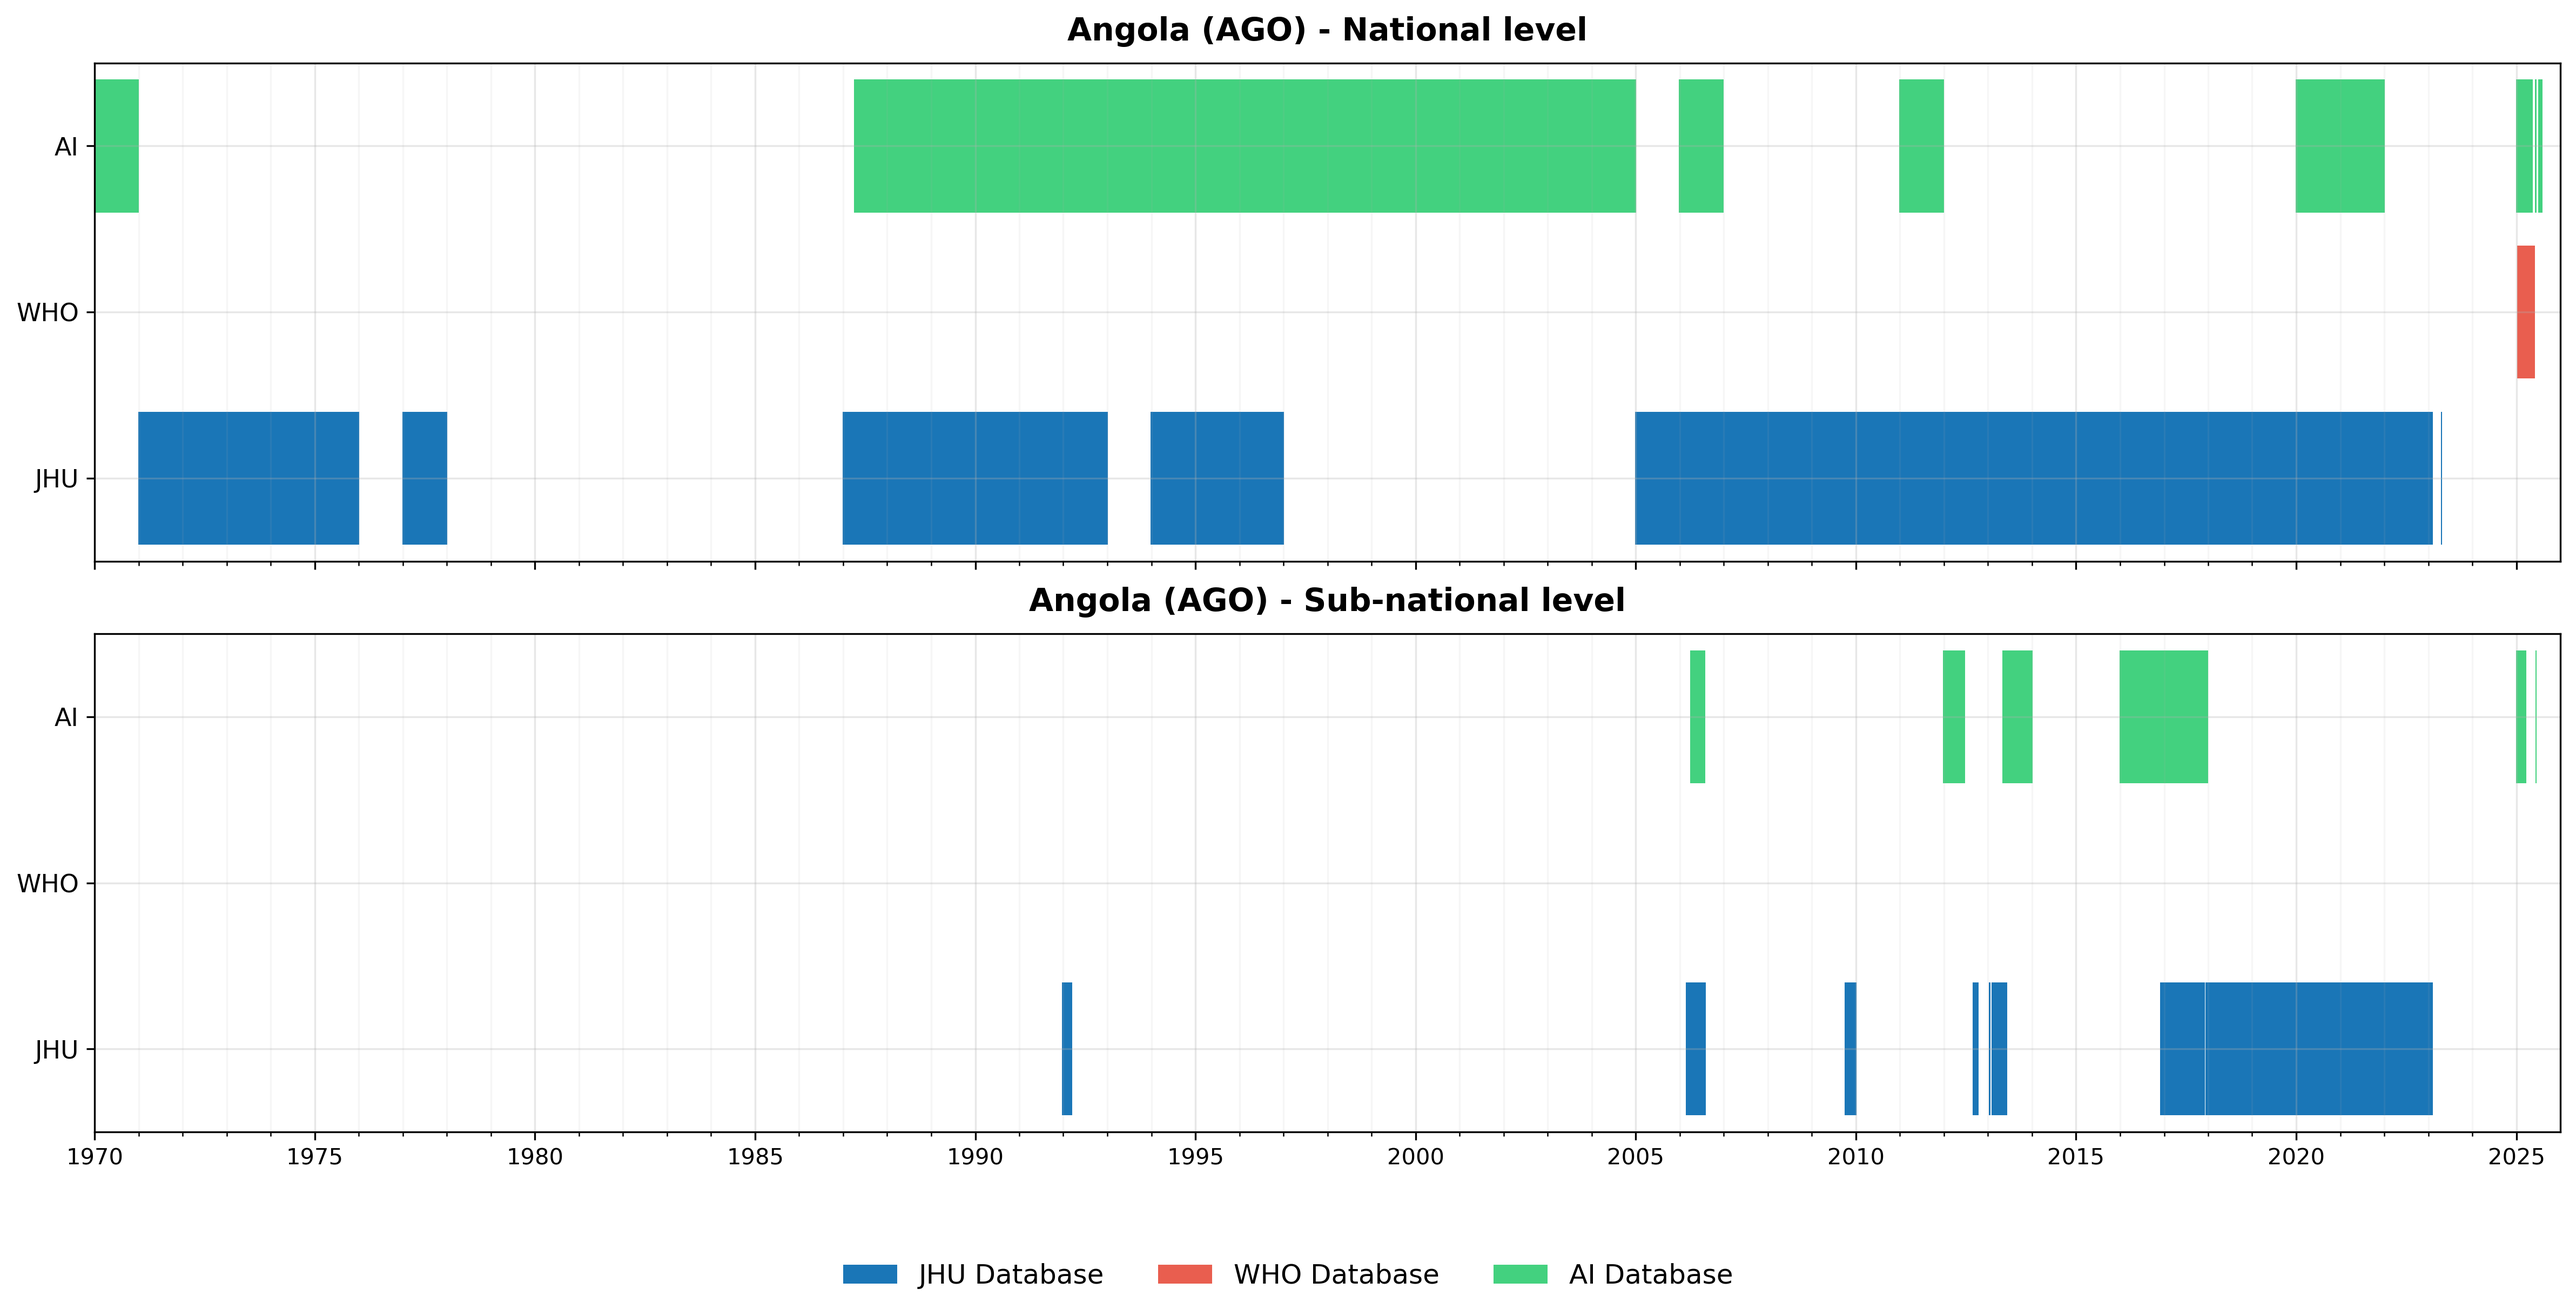
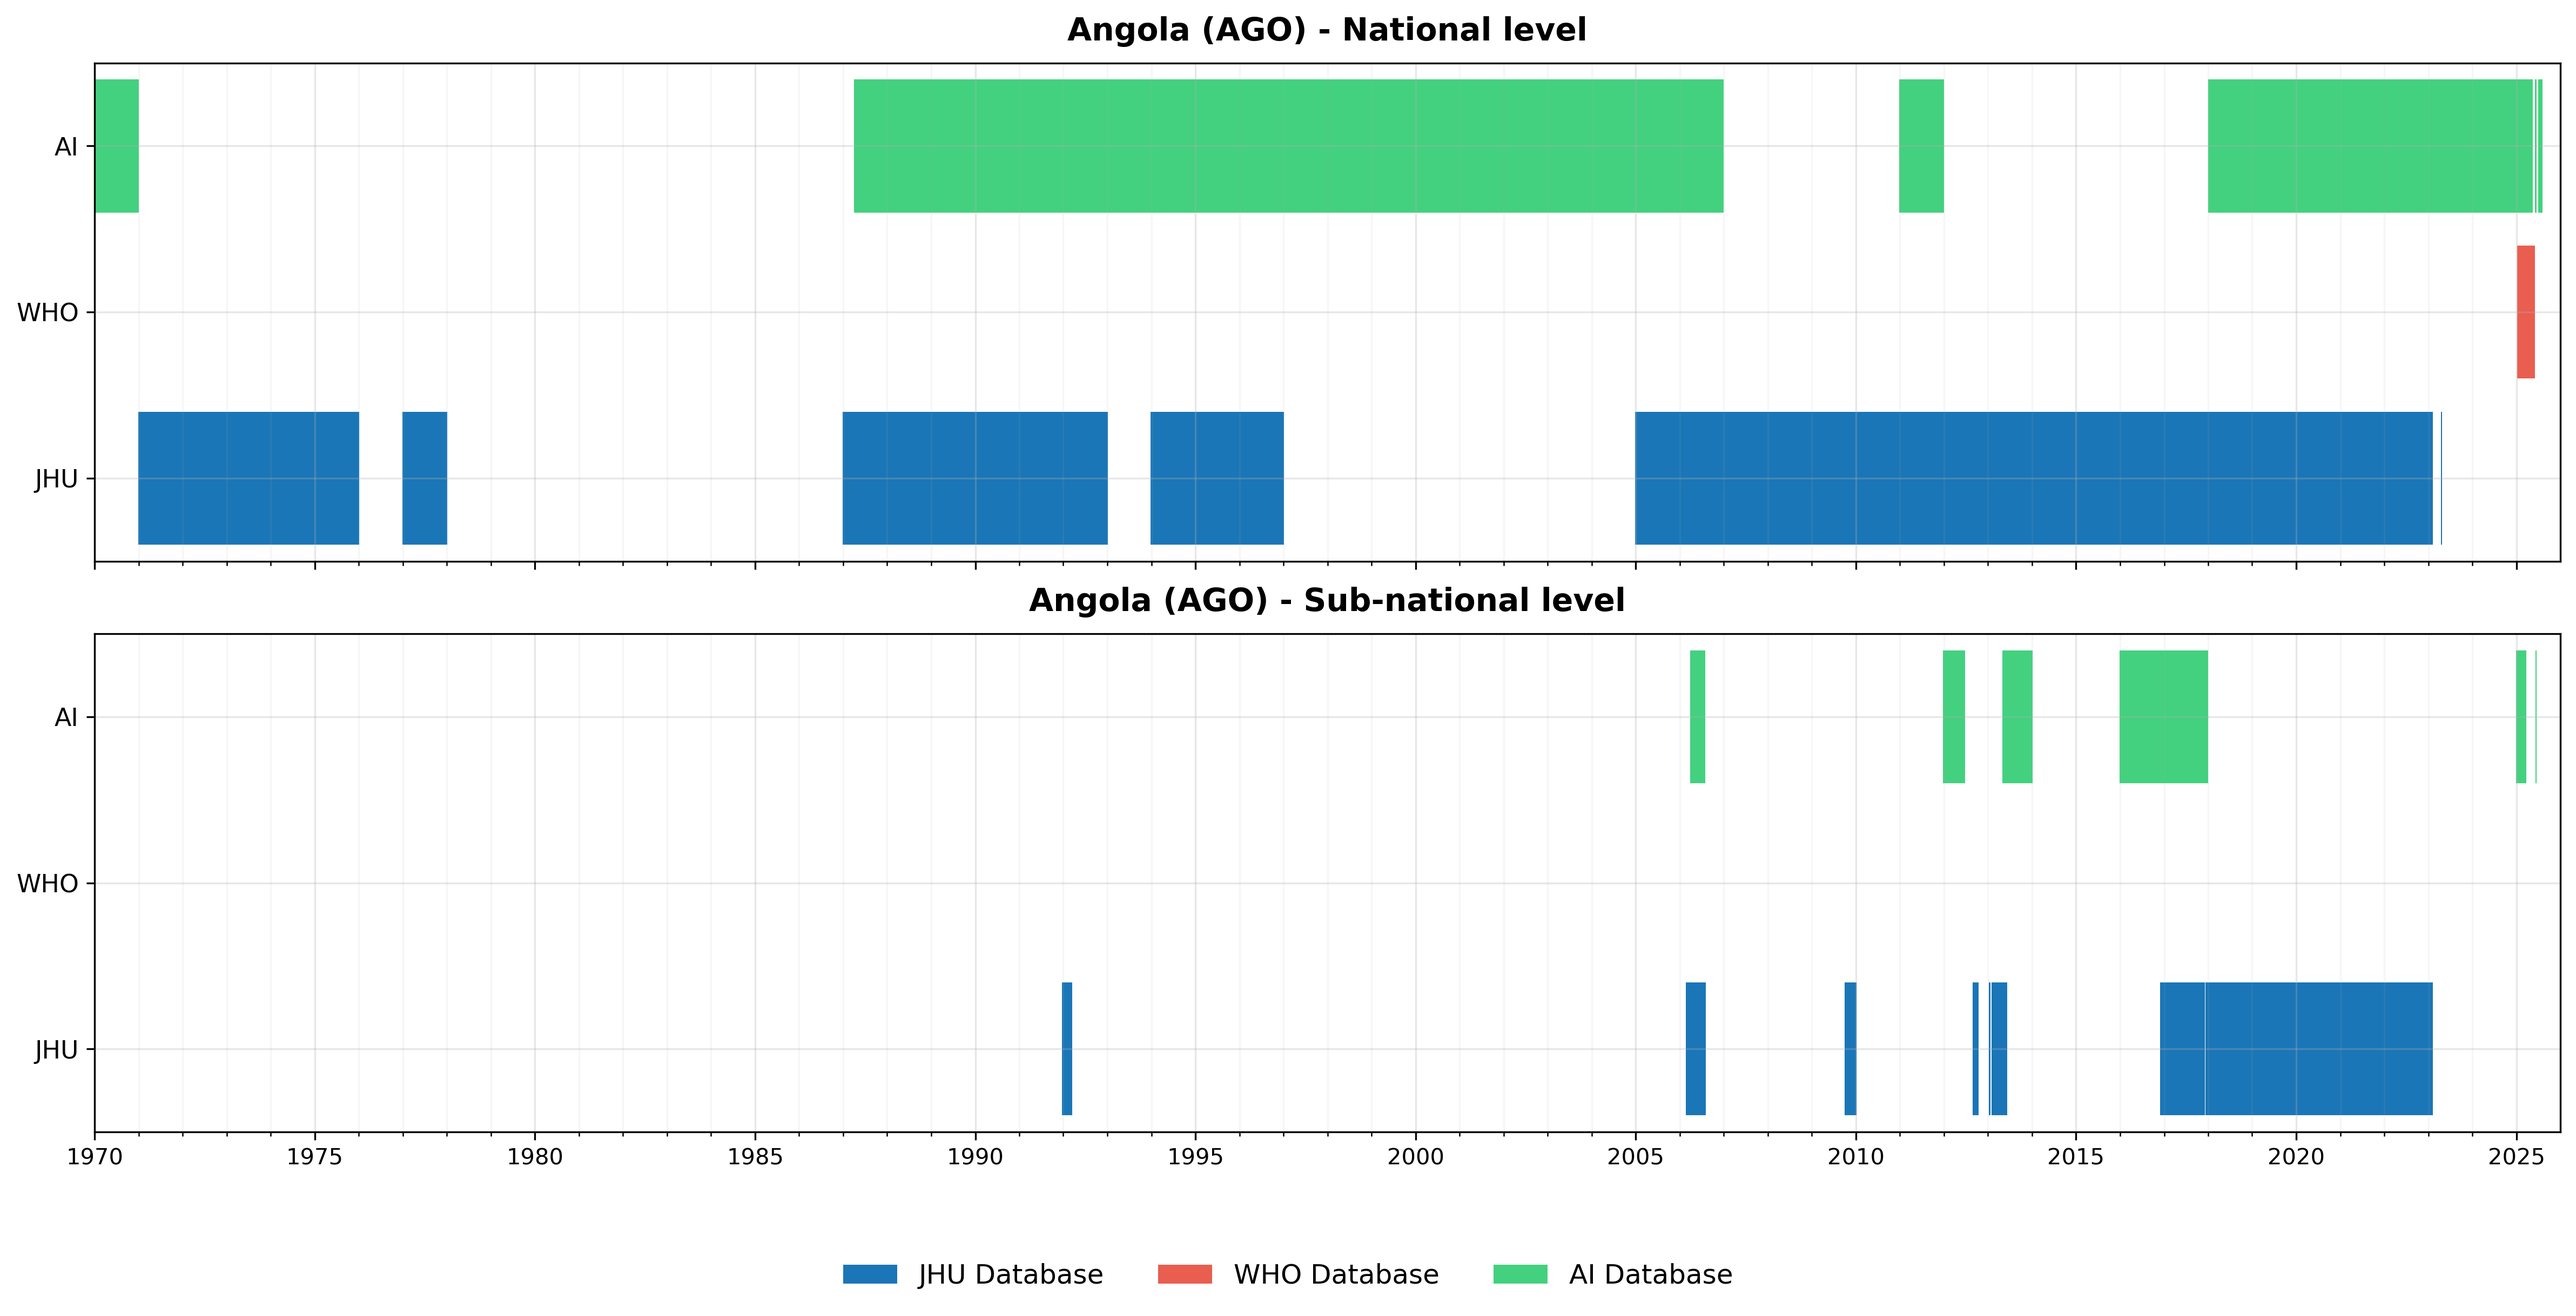
Auto-update dashboard data - 2025-08-03 21:58:41 - Generated with Claude Code

Changed region(s): [[0.8436, 0.0623, 0.9998, 0.187], [0.6249, 0.0623, 0.6561, 0.1559]]

diff --git a/dashboard/dashboard.html b/dashboard/dashboard.html
@@ -1989,14 +1989,14 @@
                 "iso": "AGO",
                 "status": "COMPLETED",
                 "datetime": "2025-08-03 21:54:43",
-                "sources": 25,
-                "observations": 27,
+                "sources": 28,
+                "observations": 30,
                 "date_range": "1970-2025",
-                "priority": "MEDIUM",
+                "priority": "LOW",
                 "execution_time": 0,
                 "queries": 0,
                 "yield_pct": 0.0,
-                "notes": "All agents executed; 27 AI data observations; Setup incomplete"
+                "notes": "All agents executed; 30 AI data observations; Setup incomplete"
         },
         {
                 "country": "Burundi",
@@ -2578,6 +2578,9 @@
 25,AFR::AGO::Bié,2006-04-01,2006-07-31,8,46,,17.4,2006-07-31,23,WHO Bié province historical outbreak,1.0,"Source states: 'Eight of the 46 people infected by cholera in Bié province died from April to July' - interpreted as 46 sCh cases",AI
 26,AFR::AGO::Cuanza_Sul,2025-04-27,2025-05-05,,,,,2025-05-05,24,WHO Cuanza Sul response team,0.9,"Source confirms WHO rapid response team deployed to Cuanza Sul province with health worker training - represents affected province with WHO intervention",AI
 27,AFR::AGO::Icolo_e_Bengo,2025-01-27,2025-01-27,,201,,,2025-01-27,25,WHO Icolo e Bengo provincial data,1.0,"Source states: 'Icolo and Bengo Province had reported 201 cases' by late January - interpreted as 201 sCh cases",AI
+28,AFR::AGO,2018-01-01,2019-12-31,0,0,0,0.0,2020-01-01,26,WHO surveillance absence validation,0.9,"Source confirms period without outbreaks between 2016-2017 outbreak and 2025 outbreak with functioning surveillance - validated zero transmission period",AI
+29,AFR::AGO,2022-01-01,2024-12-31,0,0,0,0.0,2025-01-01,27,WHO surveillance pre-outbreak absence,1.0,"Source states: 'in 2024 and as of 2 May 2024, no cases were reported' - validated zero transmission period 2022-2024",AI
+30,AFR::AGO,2002-01-01,2005-12-31,0,0,0,0.0,2006-01-01,28,Post-conflict reconstruction absence,0.8,"Source confirms decade-long absence 1996-2006 with post-conflict health system reconstruction - validated zero transmission period 2002-2005",AI
 `,
     };
         
